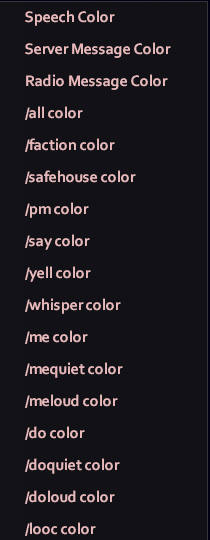
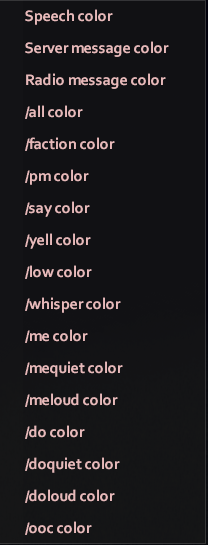
Update user guide

Changed region(s): [[0.0, 0.0, 0.9808, 1.0]]

diff --git a/docs/user-guide/chat-settings.md b/docs/user-guide/chat-settings.md
@@ -1,25 +1,40 @@
 # Chat Settings
 
-In addition to the vanilla settings (timestamps, tags, font size, fade, and opacity), OmiChat offers some new settings for players.
+In addition to the vanilla settings, OmiChat offers some new settings for players.
 With the exception of the [roleplay language](#language-options) settings, these settings will persist across game servers.
+You can access the chat settings by clicking on the gear icon at the top right of the chat box.
 
-![The available chat settings for OmiChat](../images/chat-settings-1.png)
+![Collapsed OmiChat settings](../images/chat-settings-collapsed.png)
 
-## Basic Settings
+## Basic settings
+
+Most of the settings within the basic “chat settings” submenu exist in vanilla.
+The existing settings work equivalently.
+There are two new options added by OmiChat.
+
+![OmiChat basic settings](../images/chat-settings-1.png)
+
+**Enable/disable suggestions** can be used to control whether suggestions are offered based on chat box input.
+
+The **retain commands** submenu can be used to determine whether certain commands are “retained,” so that they are set as the initial input the next time the chat is used.
+The submenu contains three options: “Chat,” “RP,” and “Other.”
+The first option refers to streams such as `/say`, the second refers to streams like [`/me`](../sandbox-options/chat-formats.md#chatformatme), and the third covers all other streams (such as commands).
+
+## Chat customization settings
+
+The chat customization settings can be used to tailor the chat to your preferences.
+**Note:** the availability of all options other than chat colors depend on the server's configuration.
+
+![OmiChat customization settings](../images/chat-settings-2.png)
 
 The **enable/disable name colors** option allows players to toggle the appearance of name colors in their chat.
 This will only display if either the [`EnableSpeechColorAsDefaultNameColor`](../sandbox-options/basic-features.md#enablespeechcolorasdefaultnamecolor) option or the [`EnableSetNameColor`](../sandbox-options/basic-features.md#enablesetnamecolor) option is enabled.
 
-**Enable/disable suggestions** can be used to control whether suggestions are offered based on chat box input.
-
 The **enable/disable sign language emotes** option is only shown when the player knows a [signed language](../sandbox-options/languages.md#signedlanguages).
-This controls whether a random [emote](./emotes.md) is played whenever they send a message.
+This controls whether a random [emote animation](./emote-shortcuts.md) is played whenever they send a message.
+If [character customization](#character-customization) is enabled, this option will be available under that submenu instead.
 
-The **retain commands** submenu can be used to determine whether certain commands are “retained,” so that they are set as the initial input the next time the chat is used.
-The submenu contains three options: “Chat,” “RP,” and “Other.”
-The first option refers to streams such as `/say`, the second to [`/me`](../sandbox-options/chat-formats.md#chatformatme), and the third covers all other streams (such as commands).
-
-## Callout Customization
+### Callout customization
 
 The **customize callouts** and **customize sneak callouts** options allow players to set custom messages for when they use callouts (bound to the `Q` key, by default).
 These rely on the [`EnableCustomShouts`](../sandbox-options/basic-features.md#enablecustomshouts) option.
@@ -27,24 +42,33 @@ These rely on the [`EnableCustomShouts`](../sandbox-options/basic-features.md#en
 ![The custom callout input window](../images/callout-example-1.png)  
 ![A player using a custom callout](../images/callout-example-2.png)
 
-## Color Customization
+### Color customization
 
-The **Set chat colors** submenu contains a number of options that allow players to control how the various chat streams display in their chat.
-The options that display depend on which chat streams are configured in the current server.
+The **Set chat colors** submenu contains a number of options that allow players to control how the various chat streams display in their chat, as well as the color of their overhead chat messages.
 
 ![Color customization options](../images/color-options.png)
 
-For example, to see text sent with `/yell` in <span style="color:rgb(255,102,0)">orange</span>, the **/yell color** option can be used.
+For example, to use <span style="color:rgb(255,102,0)">orange</span> for messages sent with `/yell`, the **/yell color** option can be used.
 
 ![A color menu for /yell with the color set to orange](../images/color-option-example-1.png)
 
-## Language Options
+If no other chat customization options are enabled, the submenu to set chat colors will be accessible directly from the top-level menu.
+The available color customization options depend on server configuration.
 
-The **RP language** submenu will only display for players that know multiple languages or can add new ones.
-Players will only be able to add new languages from this menu if they have more [language slots](../sandbox-options/languages.md#languageslots) than languages.
+## Character customization
 
+If a server has character customization enabled, a submenu that includes QoL character modifications will be available. The available options are self-explanatory.
+
+![OmiChat character customization settings](../images/chat-settings-3.png)
+
+## Language options
+
+![OmiChat language settings](../images/chat-settings-4.png)
+
+The **Language** submenu will only display for players that know multiple languages or can add new ones.
 From this menu, players can select the roleplay language that they want to use in chat.
-Languages other than the default language will display an indicator for the language.
-Players with characters that don't speak the language will see a chat message indicating that they don't understand it.
+The currently selected language will be displayed with a checkmark.
+The option to add new languages will only be available if a player has more available [language slots](../sandbox-options/languages.md#languageslots) than languages.
 
-![Language selection menu](../images/language-menu.png)
+Languages other than the default language will display an indicator for the language when used in chat.
+Players with characters that don't speak the language will see a chat message indicating that they don't understand it.

diff --git a/docs/sandbox-options/colors.md b/docs/sandbox-options/colors.md
@@ -3,7 +3,7 @@
 These [options](./index.md) define the default colors for various chat types.
 Colors should be in RGB format, space- or comma-delimited.
 
-These colors will be used unless overriden by a player's client-side chat color settings.
+These colors will be used unless overriden by a player's client-side chat color [settings](../user-guide/chat-settings.md#color-customization).
 
 ### ColorAdmin
 **Default:** `255 255 255`
@@ -77,7 +77,8 @@ The default color used for [`/ooc`](./chat-formats.md#chatformatooc) messages.
 **Default:** `85 26 139`
 
 The default color used for private messages.
-This applies to the vanilla `/whisper`, which is `/pm` if [local whisper](./chat-formats.md#chatformatwhisper) is enabled.
+
+This applies to the vanilla `/whisper`, which is changed to `/pm` if [local whisper](./chat-formats.md#chatformatwhisper) is enabled.
 
 See also:
 - [`ColorWhisper`](./colors.md#colorwhisper)
@@ -118,7 +119,7 @@ The default color used for server messages.
 The default color used for local [`/whisper`](./chat-formats.md#chatformatwhisper) messages.
 This does **not** apply to the vanilla whisper chat.
 
-**See also:** [`ColorPrivate`](./colors.md#colorprivate).
+**See also:** [`ColorPrivate`](#colorprivate).
 
 ### ColorYell
 **Default:** `255 51 51`

diff --git a/docs/user-guide/emote-shortcuts.md b/docs/user-guide/emote-shortcuts.md
@@ -1,13 +1,18 @@
-# Emotes
+# Emote Shortcuts
 
 The `EnableEmotes` [option](../sandbox-options/basic-features.md#enableemotes) allows players to use emote shortcuts in the form of `.emote` in local chats.
 These emote shortcuts cause a player's character to play the animation associated with the emote, but they don't show up in the chat message.
 
-For example, sending the message `hello! .hi` would result in the following:
+For example, sending the message `Don't shoot! .surrender` would result in the following:
 
 ![A player using the wave hi emote.](../images/emote-example.png)
 
-The following table contains the available emotes.
+This can be useful for text roleplay servers, since players can play an animation in sync with their message.
+The shortcuts can also be used without a message; sending `.hi` will play the animation without sending a message in chat.
+
+## Shortcut list
+
+The following table contains the emotes that are available in the base mod.
 Players can use the `/emotes` command to view a list in-game, or enter them using the suggestion box.
 
 | Emote           | Animation                           |

diff --git a/docs/sandbox-options/basic-features.md b/docs/sandbox-options/basic-features.md
@@ -47,7 +47,7 @@ If this is set to `3`, the `DiscordEnable` server option will be respected.
 ### EnableEmotes
 **Default:** `true`
 
-Allows players to use [emote](../user-guide/emotes.md) shortcuts in the form of `.emote`.
+Allows players to use [emote](../user-guide/emote-shortcuts.md) shortcuts in the form of `.emote`.
 These are enabled only in local chats.
 
 ### EnableFactionColorAsDefault

diff --git a/docs/sandbox-options/compatibility-features.md b/docs/sandbox-options/compatibility-features.md
@@ -1,7 +1,6 @@
 # Compatibility Features
 
-These [options](./index.md) options control compatibility patches for other mods.
-They have no effect if the relevant mod is not active.
+These [options](./index.md) control compatibility patches for other mods.
 
 All of these features have three possible values:
 - `1`: Enable the compatibility patch

diff --git a/docs/SUMMARY.md b/docs/SUMMARY.md
@@ -5,7 +5,7 @@
 # User Guide
 
 - [Chat Settings](user-guide/chat-settings.md)
-- [Emote Shortcuts](user-guide/emotes.md)
+- [Emote Shortcuts](user-guide/emote-shortcuts.md)
 - [Admin Utilities](user-guide/admins.md)
 
 # Reference Guide
